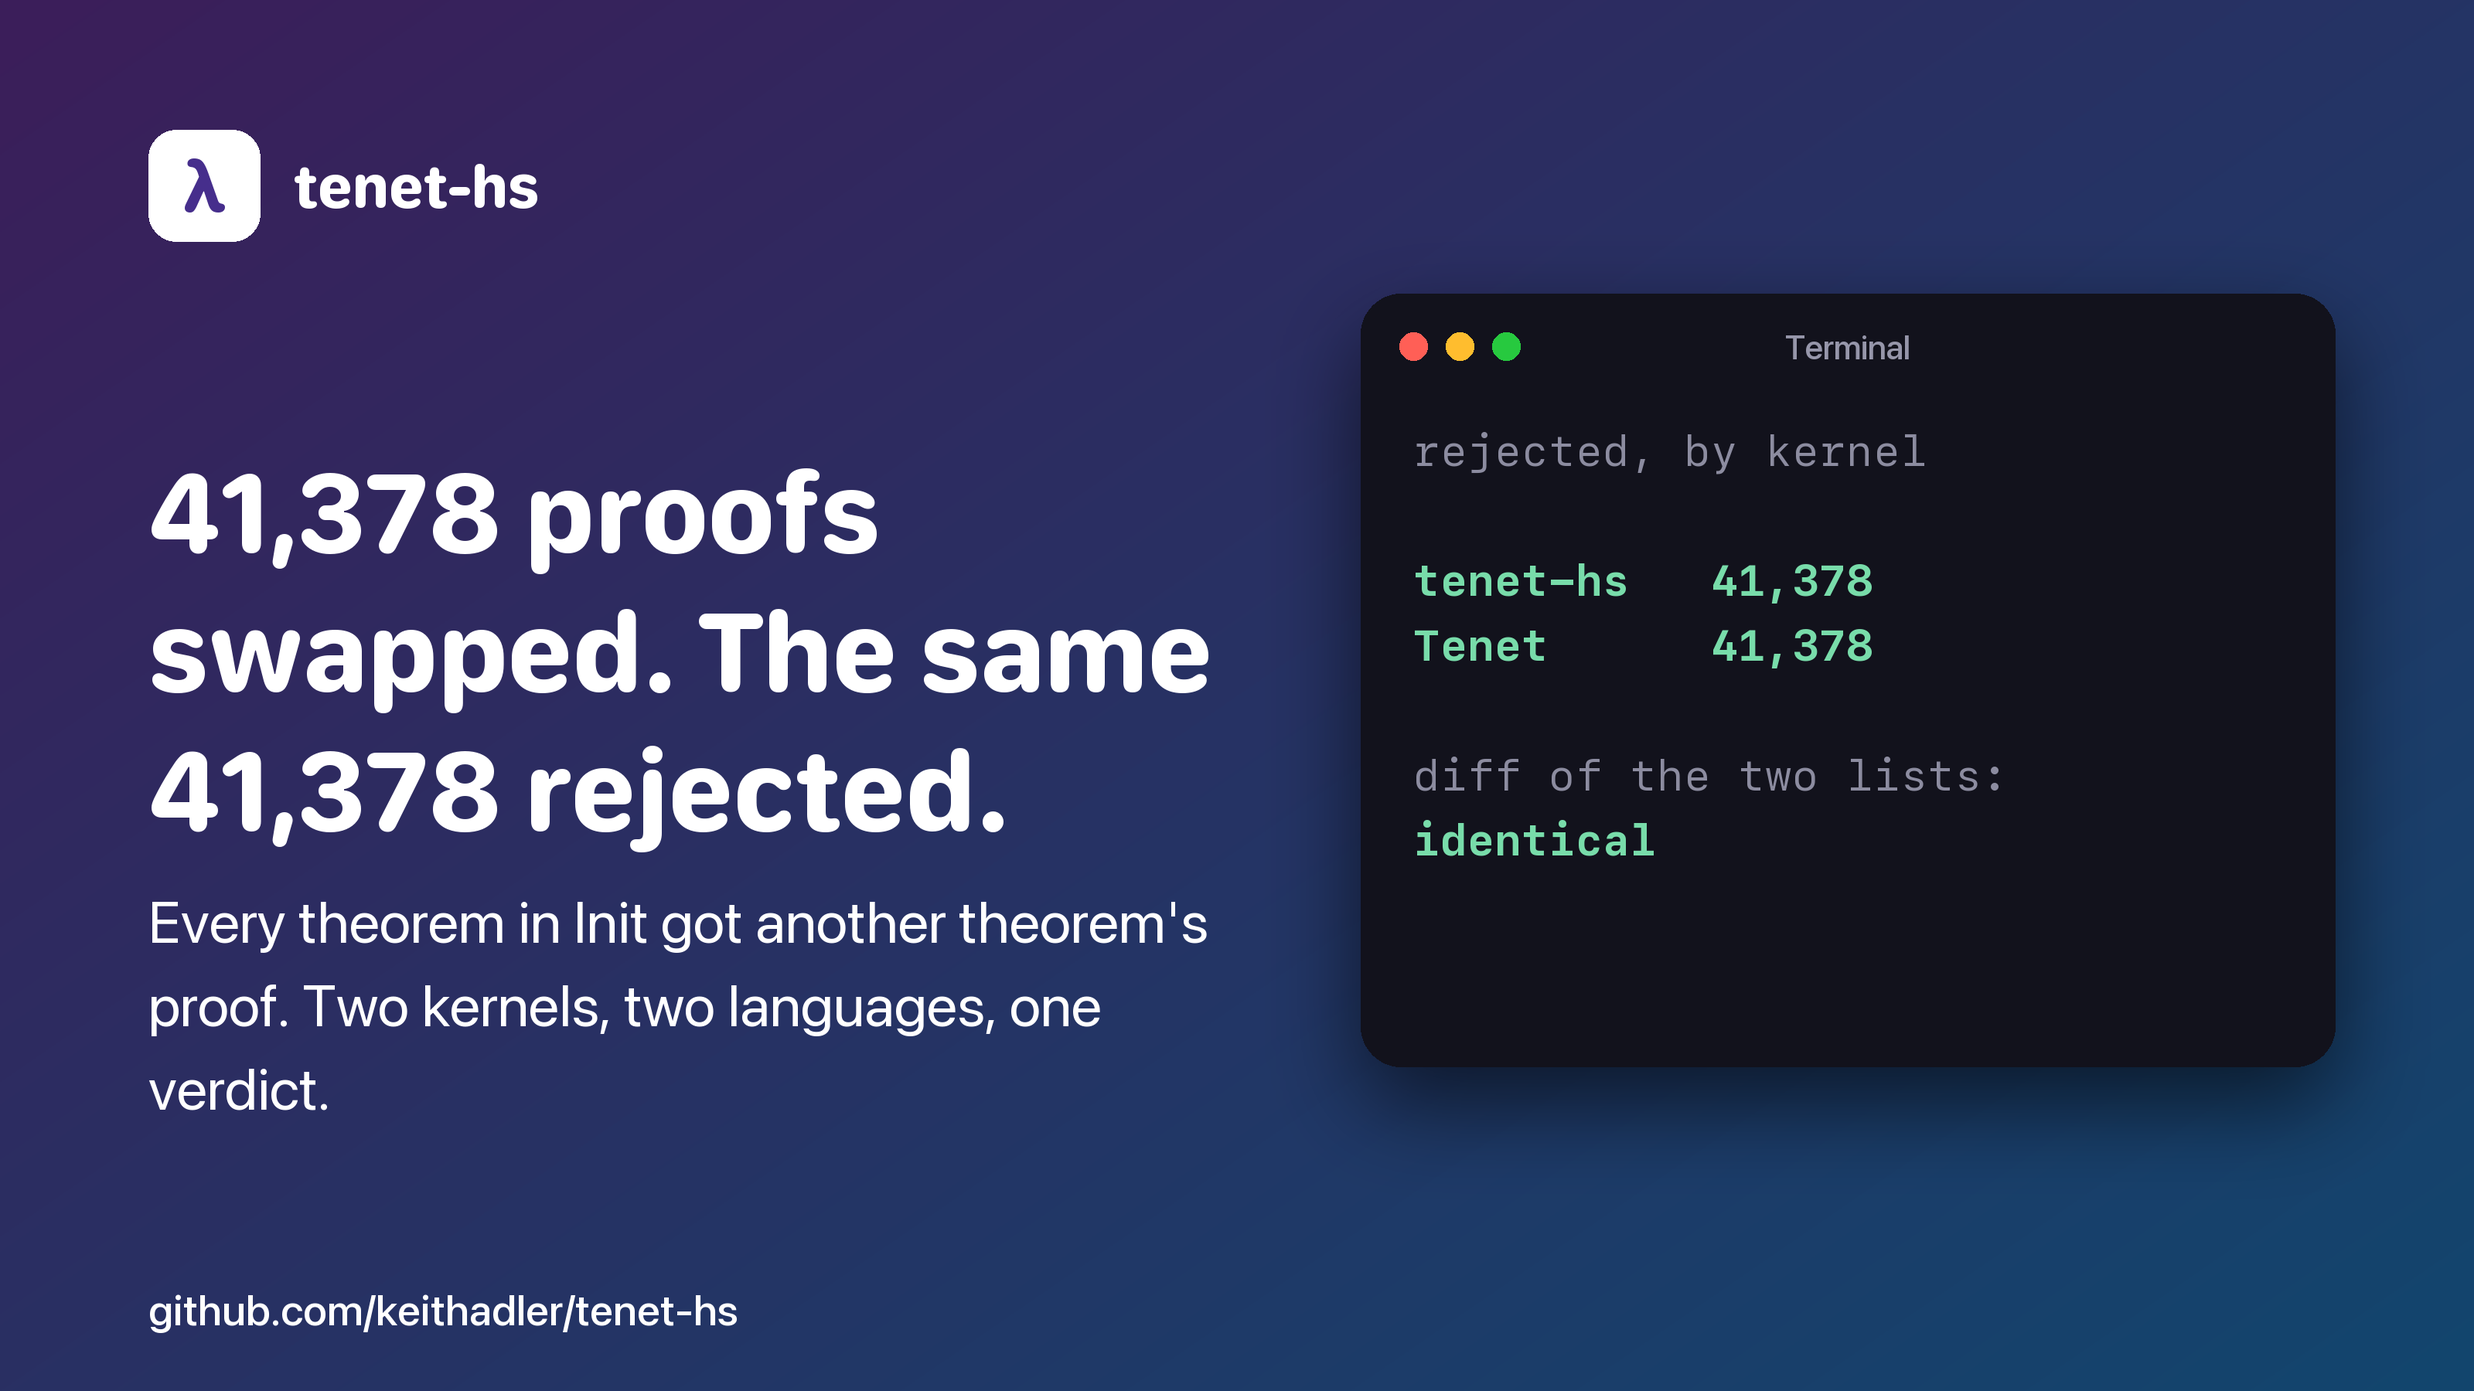
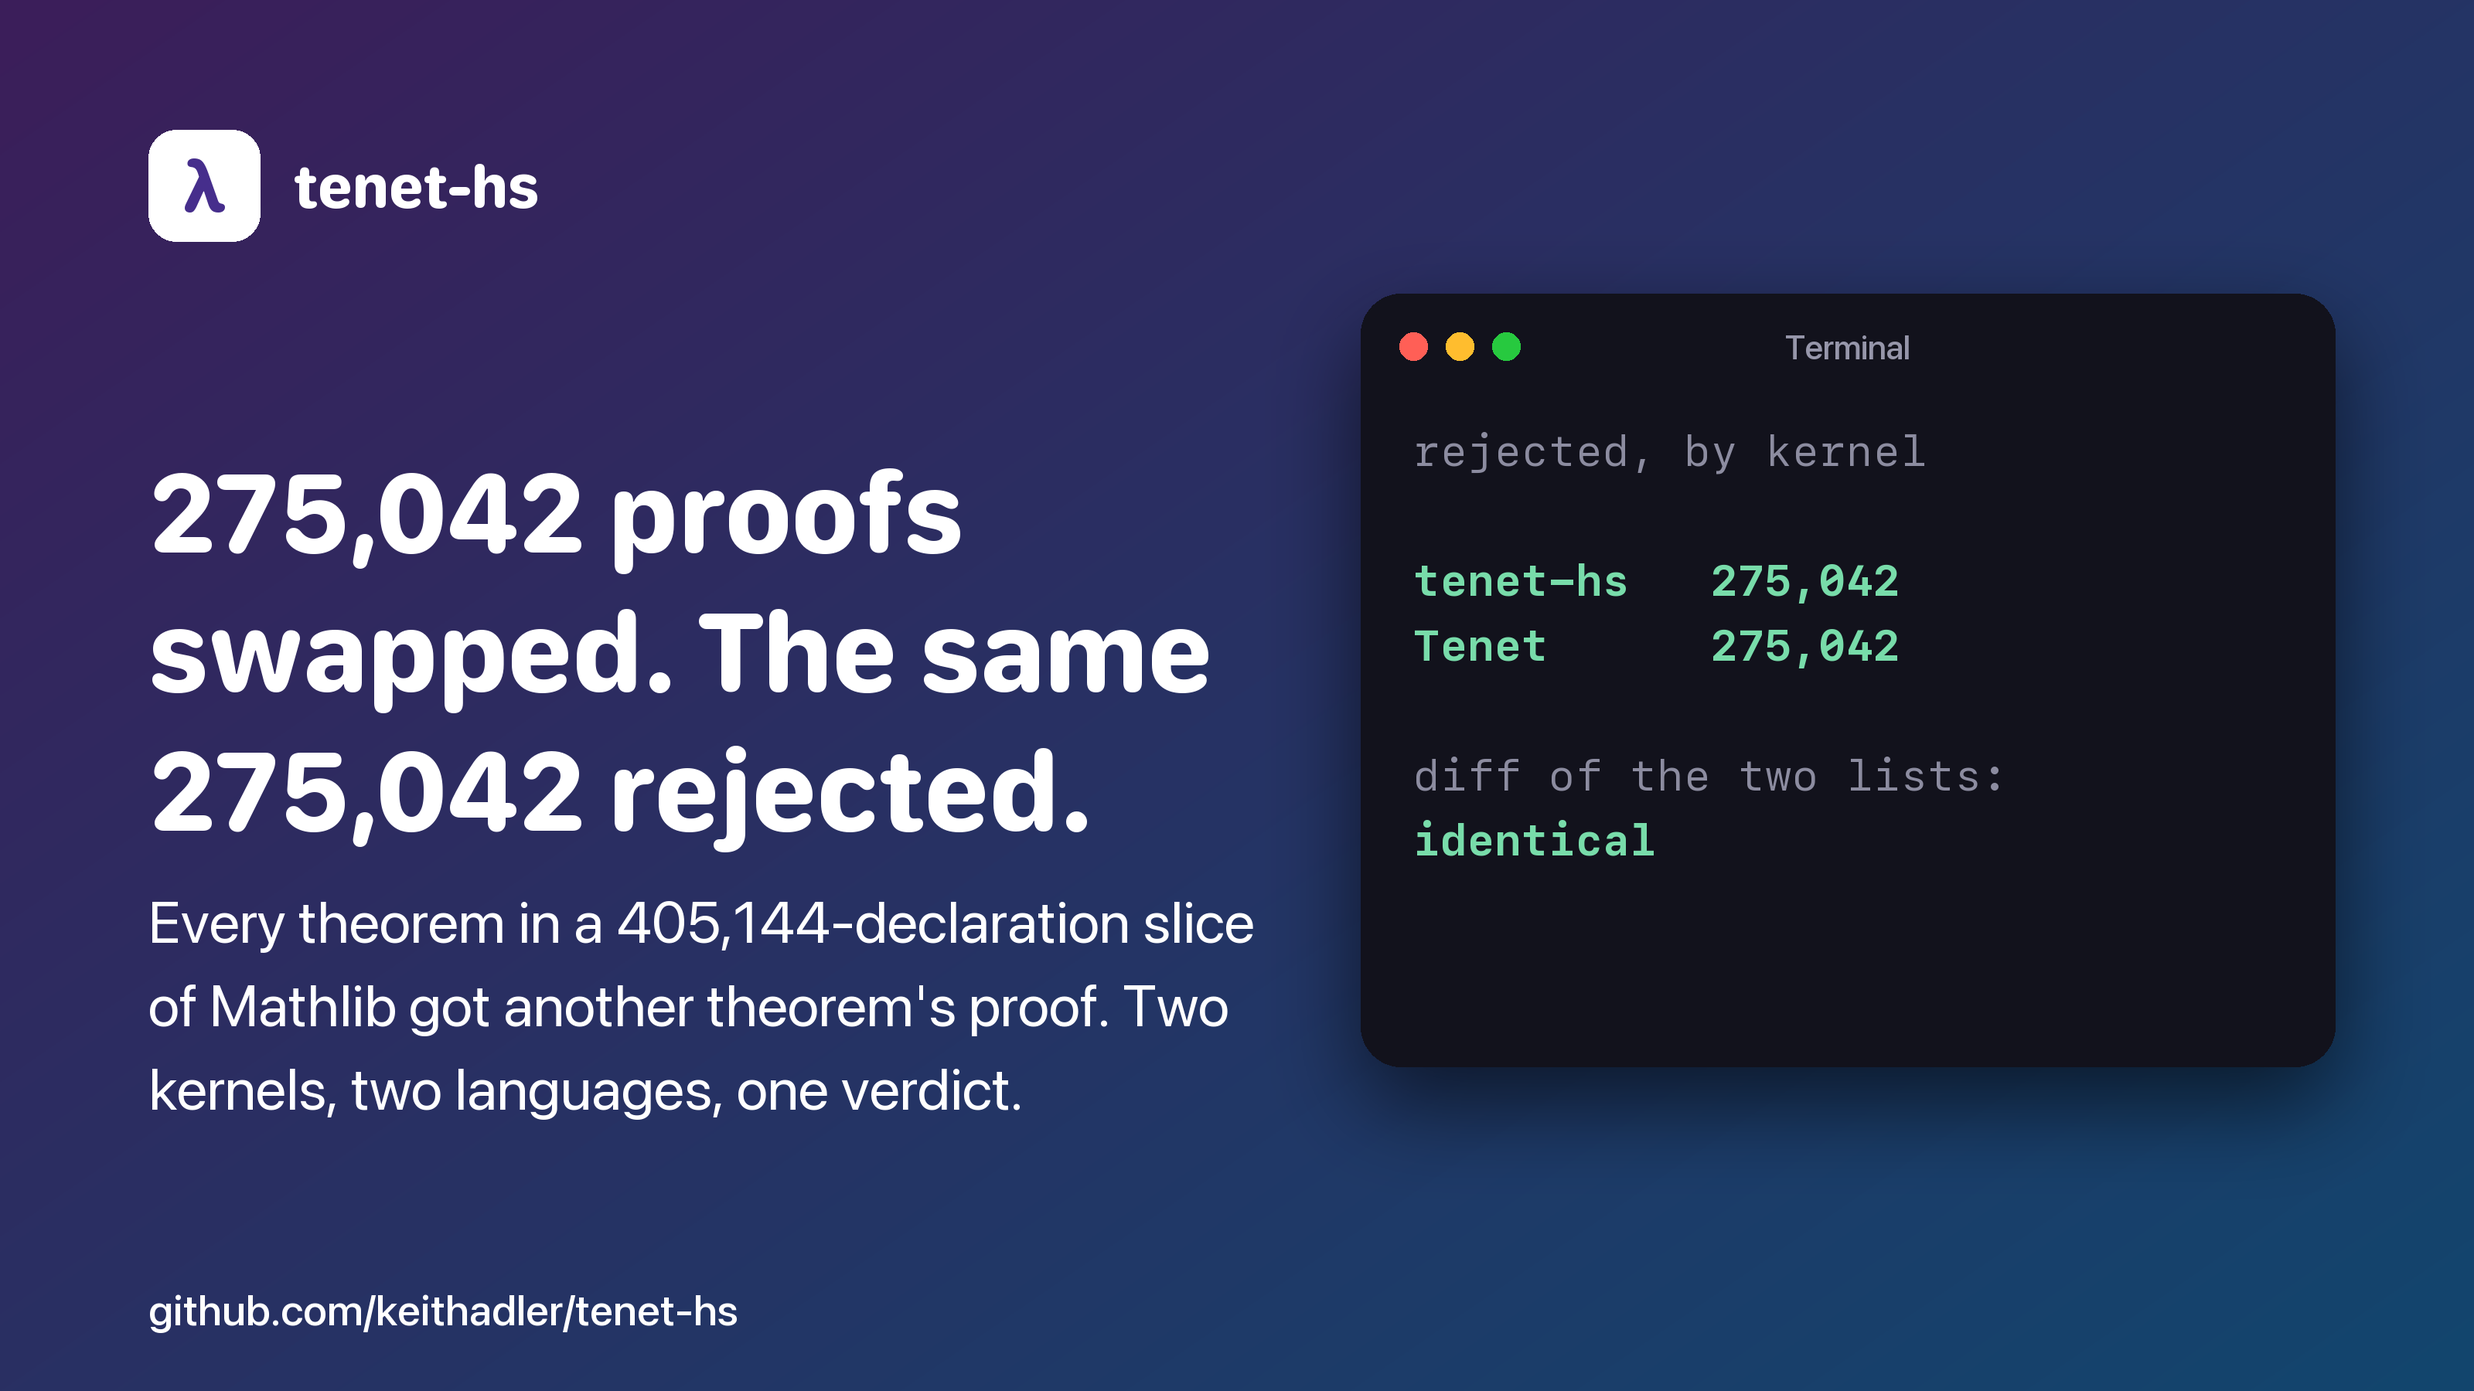
Record the Mathlib slices and the memory work
Two Mathlib slices check (128,265 and 405,144 declarations, 0 failed), and
with every proof swapped the 405,144-declaration slice rejects the identical
275,042 declarations Tenet does. All of Mathlib could not be exported: the
exporter stalled. Init now peaks at 0.84 GB. Cards, posts and docs updated.

diff --git a/tools/promo.py b/tools/promo.py
@@ -12,8 +12,8 @@ from PIL import Image, ImageDraw, ImageFilter, ImageFont
 
 FACTS = {
     "init_decls": "57,919",
-    "init_secs": "55",
-    "swapped": "41,378",
+    "init_secs": "48",
+    "swapped": "275,042",
     "fuzz_variants": "350",
     "fuzz_first": "9 of 120",
     "repo": "github.com/keithadler/tenet-hs",
@@ -142,7 +142,7 @@ def main():
                        ("", "txt"), (f"OK: {F['init_decls'].replace(',', '')} checked,", "ok"), ("0 failed, 59349 constants,", "ok"), (f"{F['init_secs']}s", "ok")]}, out=out))
     paths.append(card("2-agree.png", (60, 30, 90), (18, 70, 110),
         f"{F['swapped']} proofs swapped. The same {F['swapped']} rejected.",
-        "Every theorem in Init got another theorem's proof. Two kernels, two languages, one verdict.",
+        "Every theorem in a 405,144-declaration slice of Mathlib got another theorem's proof. Two kernels, two languages, one verdict.",
         win={"box": (880, 190, 1510, 690), "title": "Terminal",
              "lines": [("rejected, by kernel", "dim"), ("", "txt"), (f"tenet-hs   {F['swapped']}", "ok"), (f"Tenet      {F['swapped']}", "ok"), ("", "txt"),
                        ("diff of the two lists:", "dim"), ("identical", "ok")]}, out=out))

diff --git a/docs/status.md b/docs/status.md
@@ -8,7 +8,9 @@ less time. Every acceptance number here sits next to a rejection number for that
 
 | Input | Result | Command |
 | --- | --- | --- |
-| `Init`, Lean 4.35.0-rc4 (346 MB) | 57,919 declarations, **0 failed**, 55 s, 2.5 GB peak (0.94 GB live) | `tenet-hs check Init.ndjson --summary` |
+| `Init`, Lean 4.35.0-rc4 (346 MB) | 57,919 declarations, **0 failed**, 48 s, 0.84 GB peak | `tenet-hs check Init.ndjson --summary` |
+| **A Mathlib slice**: the import closure of `Mathlib.Algebra.Ring.Basic` (572 MB) | 128,265 declarations, **0 failed**, 68 s, 1.5 GB peak | `tenet-hs check slice.ndjson --summary` |
+| **A broader Mathlib slice**: 19 areas (analysis, number theory, linear algebra, combinatorics, measure theory, algebraic geometry, category theory, Galois theory, manifolds, polynomial rings and more) with every dependency (2.55 GB) | 405,144 declarations, **0 failed**, 463 s, 4.2 GB peak | `tenet-hs check slice.ndjson --summary +RTS -xn` |
 | `Init.Core`, `Init.Prelude` | 0 failed, under a second each | same |
 | `Nat.add_succ`, format 3.1 and 3.0 | accepted | `cabal test` |
 
@@ -22,6 +24,7 @@ that the exporter's recursors, which a malicious file could get wrong, are never
 | --- | --- | --- |
 | The negative corpus, 9 files | **9 of 9 rejected**, each at the one declaration its manifest entry names; each defended case accepted in full with its defense off | `cabal test` |
 | `Init` with every theorem given the previous theorem's proof | **41,378 rejected**, the identical set Tenet rejects | `tools/swap-proofs.py`, then `tenet-hs check … --quiet --max-unfolds 3000000` |
+| The 19-area Mathlib slice, same mutation (279,094 theorems given another's proof) | **275,042 rejected**, the identical set Tenet rejects; 130,102 still check | same |
 | `Init.Core`, same mutation | 637 of 650 rejected, the identical 637 Tenet rejects | same |
 
 The survivors of the swap are not failures. They were handed a proof of a definitionally equal statement:
@@ -34,6 +37,7 @@ same ones, which is the stronger check than inspecting them.
 | --- | --- |
 | `tools/fuzz.py` on `Init.Prelude`, 250 variants, 3 mutations each | 2,196 rejections, **0 disagreements** |
 | `tools/fuzz.py` on `Init.Core`, 100 variants, 4 mutations each | 827 rejections, **0 disagreements** |
+| `tools/fuzz.py` on `Init.Prelude` again, 150 variants, on the final memory-optimized build | 1,694 rejections, **0 disagreements** |
 | The whole-`Init` swap above | the same 41,378 declarations in both |
 
 The first full fuzzer run, before these, found **9 disagreements in 120 variants**, all one bug in failure
@@ -50,7 +54,7 @@ Against the arena's published test suite, 196 files ([how to run it](arena.md)):
 | --- | --- |
 | `bad/`, must reject (71 files) | **71 of 71 rejected** |
 | `good/`, must accept (125 files) | **125 of 125 accepted** |
-| the two slowest, `perf/magma-list-deep-n36` and `perf/magma-list-pair-n21` | accepted in 198 s and 33 s on this laptop, inside the arena's per-test timeouts of 390 s and 260 s |
+| the two slowest, `perf/magma-list-deep-n36` and `perf/magma-list-pair-n21` | accepted in 146 s and 25 s on this laptop, inside the arena's per-test timeouts of 390 s and 260 s |
 
 The first run was 192 of 196. The four misses were two reader gaps (table indices that are sparse or out of order,
 which the format allows) and two performance tests. The readers are fixed, and the performance tests were a memory
@@ -61,15 +65,14 @@ evidence and not a guarantee; a timeout there would be scored as a decline, not 
 
 | | tenet-hs | Tenet |
 | --- | --- | --- |
-| `Init` | 55 s, 2.5 GB peak (0.94 GB live) | about 30 s on one worker |
-| `perf/app-lam` | 7.8 s | 2.0 s |
+| `Init` | 48 s, 0.84 GB peak | about 30 s on one worker |
+| `perf/app-lam` | 7.4 s, 4.2 GB peak | 2.0 s |
 | `perf/magma-list-deep-n21` | 6.1 s | 1.4 s |
-| `perf/magma-list-pair-n21` | 34 s, 5.0 GB peak (1.8 GB live) | 12 s |
-| `perf/magma-list-deep-n36` | 199 s, 1.5 GB peak (0.5 GB live) | 50 s |
+| `perf/magma-list-pair-n21` | 25 s, 2.7 GB peak | 12 s |
+| `perf/magma-list-deep-n36` | 146 s, 0.86 GB peak | 50 s |
 
-Peak is the resident set the operating system reports, which is what the arena scores; live is the collector's
-figure for data it must keep. A copying collector needs room to copy into, so peak runs two to three times live.
-Tenet's memory was not re-measured here.
+Peak is the resident set the operating system reports, which is what the arena scores. Tenet's memory was not
+re-measured here.
 
 Two to five times slower than Tenet on the arena's `perf/` tests, and about 1.8 times slower on all of `Init`
 against Tenet's own single-worker figure (Tenet's number is from its README, measured on its `.olean` path, not
@@ -128,8 +131,12 @@ One rule never fired: `DefEqStringLit`, a string literal compared against an app
 
 ## Not done yet
 
-- **Mathlib.** Not run. `Init` is the largest library checked; Mathlib is several times larger and would take
-  hours on one core.
+- **All of Mathlib.** Not checked. Two slices were (above, up to 405,144 declarations), but a complete export of
+  this Mathlib (about 6.6 GB, over 100 million expression records) could not be produced: lean4export stalled at
+  expression 100,663,291, which is 75% of 2^27 hash buckets, so I believe its own table resizing under memory
+  pressure on this 17 GB laptop. That is the exporter's limit and not the checker's, but it means the claim is
+  "slices of Mathlib", and a full run needs a machine that can export it. Projected from the slices, the checker
+  would want roughly 10 GB and about 20 minutes for it. That projection is untested.
 - **A `.olean` reader.** Tenet reads Lean's compiled modules directly; tenet-hs reads lean4export files only.
 - **Parallelism.** Single-threaded by design for now.
 - **Other GHC versions.** Built and tested with GHC 9.14.1 only. The arena's flake provides `ghc` too, and a

diff --git a/docs/design.md b/docs/design.md
@@ -149,6 +149,26 @@ terms that were no longer interned fell back to structural comparison. Memoized 
 The lesson is specific to this workload, where most terms are short-lived intermediates; it says nothing about a
 checker whose terms mostly live long.
 
+**Memory at scale.** A kernel that keeps every expression of a large export alive is limited by how much each
+expression costs, and the first correct build cost far too much: a 572 MB Mathlib slice took 3.4 GB. Four changes,
+each found by a heap profile and not by guessing, brought that to 1.5 GB, and all of `Init` from 2.5 GB to 0.84 GB:
+
+1. **Cached facts in two words.** Each node carried its hash, the range of its loose bound variables, two flags and
+   its size as five fields and a separate record. Packing everything but the hash into one word and unpacking the
+   pair into the node halves the size of an application.
+2. **Arrays, not maps, for the import tables.** A persistent `IntMap` entry costs about as much as the term it
+   points to. The name, level and expression tables are growable mutable arrays, with an overflow map for the
+   sparse indices the format allows.
+3. **No lazy leftovers.** Table entries were stored as unevaluated thunks that kept their parsed JSON alive until
+   first use, and the constants' fields were lazy. Both are strict now.
+4. **A strict line counter.** The loop that reads the file carried its line number as a lazy value that was only
+   ever used in error messages, so it built a chain of ten million unevaluated `+ 1` thunks, 240 MB, on a
+   572 MB file. The input is also read line by line from the handle and not as a lazy list.
+
+The census that found these was `+RTS -hT`, and it needs one caution that cost an hour: with the non-moving
+collector (`-xn`) the census counts dead objects that have not been swept yet, and showed 1.6 GB of arrays that
+were not there. Profile with the normal collector.
+
 **The collector.** About half the wall time on the heavy tests is garbage collection, because the checker's
 caches keep everything alive and a copying collector copies live data. A larger nursery recovers 15 to 25%
 (`-A256m` takes `magma-list-deep-n21` from 6.2 s to 5.2 s) but the arena also scores peak memory, so the default

diff --git a/README.md b/README.md
@@ -16,7 +16,7 @@ on .NET. It needs nothing beyond the libraries that ship with GHC.
 
 ```
 $ tenet-hs check Init.ndjson --summary
-OK: 57919 checked, 0 failed, 59349 constants, 54.8s
+OK: 57919 checked, 0 failed, 59349 constants, 48.1s
 ```
 
 ## Why another kernel
@@ -42,8 +42,9 @@ nothing here is evidence until it sits next to a run that *should* fail.
 
 | | |
 | --- | --- |
-| **Accepts** all of `Init` (Lean 4.35.0-rc4) | 57,919 declarations, 0 failed, 55 s on one core |
-| **Rejects** it when every theorem is given another theorem's proof | 41,378 rejected, **the identical 41,378 that Tenet rejects** |
+| **Accepts** all of `Init` (Lean 4.35.0-rc4) | 57,919 declarations, 0 failed, 48 s on one core, 0.84 GB |
+| **Accepts** a 19-area slice of Mathlib with every dependency | 405,144 declarations, 0 failed, 463 s, 4.2 GB |
+| **Rejects** it when every theorem is given another theorem's proof | 41,378 rejected, **the identical 41,378 that Tenet rejects**; on the Mathlib slice, the identical 275,042 |
 | **Rejects** its [negative corpus](tests/fixtures/invalid) | 9 of 9, each at the one declaration it names, each defended case accepted in full with its defense off |
 | **Agrees** with Tenet on randomly damaged files | 350 variants, 3,023 rejections, 0 disagreements |
 | **Passes** the [Lean Kernel Arena](docs/arena.md)'s published suite | 196 of 196: all 71 `bad/` rejected, all 125 `good/` accepted |
@@ -142,7 +143,8 @@ arena's performance tests, and [design](docs/design.md#what-was-measured) says w
 ## Limitations
 
 - It reads lean4export NDJSON only. There is no `.olean` reader.
-- It is single-threaded. `Init` takes about a minute; Mathlib would take hours, and has not been run.
+- It is single-threaded. `Init` takes under a minute. Slices of Mathlib up to 405,144 declarations check, but all of
+  Mathlib has not been run: lean4export stalled while exporting it on my laptop, so there was no complete file to check.
 - It is slower than Tenet, by two to five times on the arena's performance tests.
 - Like Tenet it does not accelerate `Nat.log2`, which only makes it slower on terms that use it.
 - Built and tested with one GHC version.

diff --git a/docs/testing.md b/docs/testing.md
@@ -46,9 +46,10 @@ done
 cabal run -v0 tenet-hs -- check ~/tenet-hs-exports/Init.ndjson --summary
 ```
 
-All of `Init` is 346 MB, 57,919 declarations, about a minute. Peak memory is 2.5 GB, of which 0.94 GB is live
-data: every expression of the export stays alive (later declarations refer to earlier ones by index, and the
-environment needs every type and value for unfolding), and the copying collector needs room to copy into.
+All of `Init` is 346 MB, 57,919 declarations, under a minute, 0.84 GB peak. Every expression of the export stays
+alive (later declarations refer to earlier ones by index, and the environment needs every type and value for
+unfolding), so memory grows with the export: about 1.5 GB for a 572 MB Mathlib slice and 4.2 GB for a 2.55 GB one.
+For inputs that large, `+RTS -xn` (the non-moving collector) cuts peak memory by about a third for about 6% more time.
 
 ## 3. Mutation: swap the proofs
 

diff --git a/CHANGELOG.md b/CHANGELOG.md
@@ -15,7 +15,8 @@ First release. A Lean 4 kernel in Haskell and a checker for lean4export files.
 - Reads format 3.0 and 3.1, with sparse and out-of-order table indices.
 - `--rules` reports which kernel rules an input exercised.
 
-Measured: all of `Init` (Lean 4.35.0-rc4), 57,919 declarations, 0 failed, 55 s. Every theorem in `Init` given the
+Measured: all of `Init` (Lean 4.35.0-rc4), 57,919 declarations, 0 failed, 48 s, 0.84 GB. A 19-area Mathlib slice,
+405,144 declarations, 0 failed, with the identical 275,042 swapped proofs rejected as by Tenet. Every theorem in `Init` given the
 previous theorem's proof: the same 41,378 rejected by this checker and by Tenet. 350 randomly damaged files:
 3,023 rejections, 0 disagreements with Tenet. The Lean Kernel Arena's published suite: 196 of 196. See
 [docs/status.md](docs/status.md) for every command, and for what has not been done.
